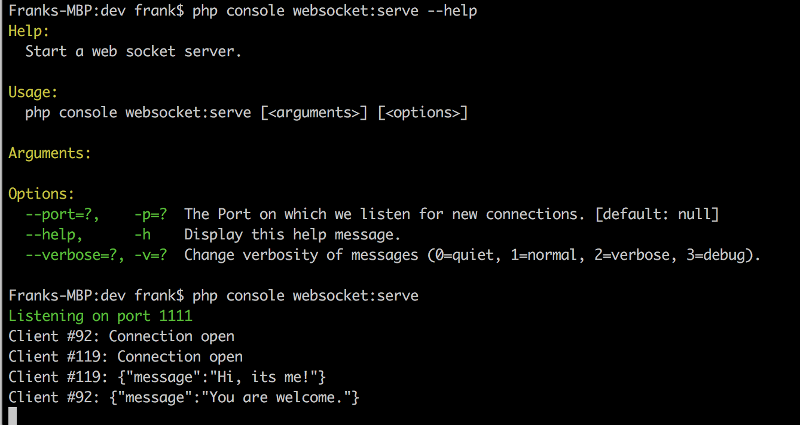
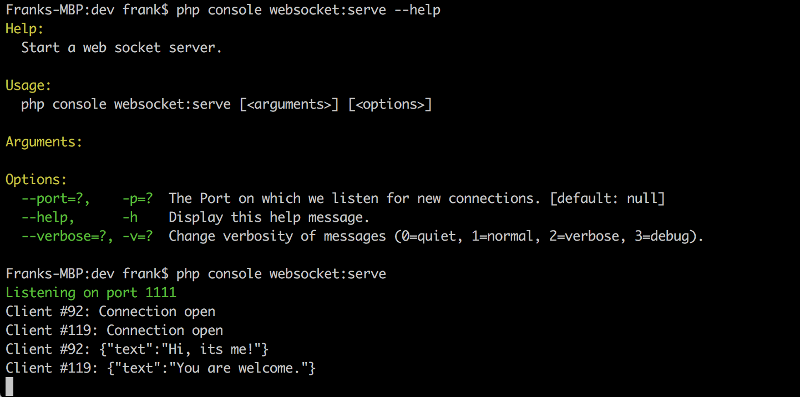
remove json from websockdet.js

Changed region(s): [[0.0, 0.0, 0.9375, 1.0]]

diff --git a/assets/js/websocket.js b/assets/js/websocket.js
@@ -108,7 +108,7 @@
 
             if (typeof trigger.onmessage !== 'undefined') {
                 socket.onmessage = function (event) {
-                    trigger.onmessage(JSON.parse(event.data));
+                    trigger.onmessage(event.data);
                 };
             }
 
@@ -145,11 +145,11 @@
     /**
      * Sends a message.
      *
-     * @param data Data to send.
+     * @param message Message to send.
      */
-    websocket.send = function(data) {
+    websocket.send = function(message) {
         try {
-            socket.send(JSON.stringify(data));
+            socket.send(message);
         }
         catch (exception) {
             if (typeof trigger.onerror !== 'undefined') {

diff --git a/src/Handler/WebSocketHandler.php b/src/Handler/WebSocketHandler.php
@@ -50,19 +50,19 @@ class WebSocketHandler implements WebSocketHandlerContract
     /**
      * @inheritdoc
      */
-    public function onMessage(ConnectionInterface $from, $msg)
+    public function onMessage(ConnectionInterface $from, $message)
     {
-        $this->trace($from, $msg);
-        $this->broadcastExclude($msg, [$from]);
+        $this->trace($from, $message);
+        $this->broadcastExclude($message, [$from]);
     }
 
     /**
      * @inheritdoc
      */
-    public function onPush($msg)
+    public function onPush($message)
     {
-        $this->trace(null, $msg);
-        $this->broadcast($msg);
+        $this->trace(null, $message);
+        $this->broadcast($message);
     }
 
     /**
@@ -78,32 +78,32 @@ class WebSocketHandler implements WebSocketHandlerContract
      * Send a message to a client.
      *
      * @param ConnectionInterface $to The connection which receive the message.
-     * @param string $msg The message to send.
+     * @param string $message The message to send.
      */
-    protected function send(ConnectionInterface $to, $msg)
+    protected function send(ConnectionInterface $to, $message)
     {
-        $to->send($msg);
+        $to->send($message);
     }
 
     /**
      * Send a message to all clients.
      *
-     * @param string $msg The message to send.
+     * @param string $message The message to send.
      */
-    protected function broadcast($msg)
+    protected function broadcast($message)
     {
         foreach ($this->connections as $conn) {
-            $conn->send($msg);
+            $conn->send($message);
         }
     }
 
     /**
      * Send a message to all clients except the clients listed in the blacklist.
      *
-     * @param string $msg The message to send.
+     * @param string $message The message to send.
      * @param array $exclude Blacklist
      */
-    protected function broadcastExclude($msg, array $exclude)
+    protected function broadcastExclude($message, array $exclude)
     {
         $exclude = array_map(function($conn) {
             return $conn->resourceId;
@@ -111,7 +111,7 @@ class WebSocketHandler implements WebSocketHandlerContract
 
         foreach ($this->connections as $conn) {
             if (!in_array($conn->resourceId, $exclude)) {
-                $conn->send($msg);
+                $conn->send($message);
             }
         }
     }

diff --git a/views/chat.blade.php b/views/chat.blade.php
@@ -18,8 +18,9 @@
                 trace('Socket closed: ' + reason + ' (' + code + ')');
             });
 
-            websocket.on('message', function(data) {
-                trace('Received: ' + data.message);
+            websocket.on('message', function(message) {
+                var data = JSON.parse(message);
+                trace('Received: ' + data.text);
             });
 
             websocket.on('error', function() {
@@ -53,25 +54,25 @@
                 return;
             }
 
-            var inputField = $('#message');
-            var text = inputField.val();
-            if (text == '') {
+            var input = $('#message');
+            var value = input.val();
+            if (value === '') {
                 trace('Please enter a message');
                 return;
             }
             var data = {
-                message: text
+                text: value
             };
 
-            websocket.send(data);
-            trace('Sent: ' + text);
+            websocket.send(JSON.stringify(data));
 
-            inputField.val('');
+            trace('Sent: ' + value);
+            input.val('');
         }
 
-        function trace(msg) {
+        function trace(message) {
             var div = $('#chat-log');
-            div.append(msg + '<br/>');
+            div.append(message + '<br/>');
             div.scrollTop(div.prop('scrollHeight'));
         }
     </script>

diff --git a/src/Controllers/WebSocketController.php b/src/Controllers/WebSocketController.php
@@ -24,6 +24,8 @@ class WebSocketController extends Controller
      */
     public function push()
     {
-        websocket()->push(json_encode(['message' => datetime()->toDateTimeString()]));
+        websocket()->push(json_encode([
+            'text' => datetime()->toDateTimeString()
+        ]));
     }
 }

diff --git a/src/Services/Contracts/WebSocket.php b/src/Services/Contracts/WebSocket.php
@@ -7,7 +7,7 @@ interface WebSocket
     /**
      * Push a message to the web socket server.
      *
-     * @param string $msg The message to send.
+     * @param string $message The message to send.
      */
-    public function push($msg);
+    public function push($message);
 }

diff --git a/src/Services/WebSocket.php b/src/Services/WebSocket.php
@@ -38,8 +38,8 @@ class WebSocket implements WebSocketContract
     /**
      * @inheritdoc
      */
-    public function push($msg)
+    public function push($message)
     {
-        $this->pushSocket->send($msg);
+        $this->pushSocket->send($message);
     }
 }
